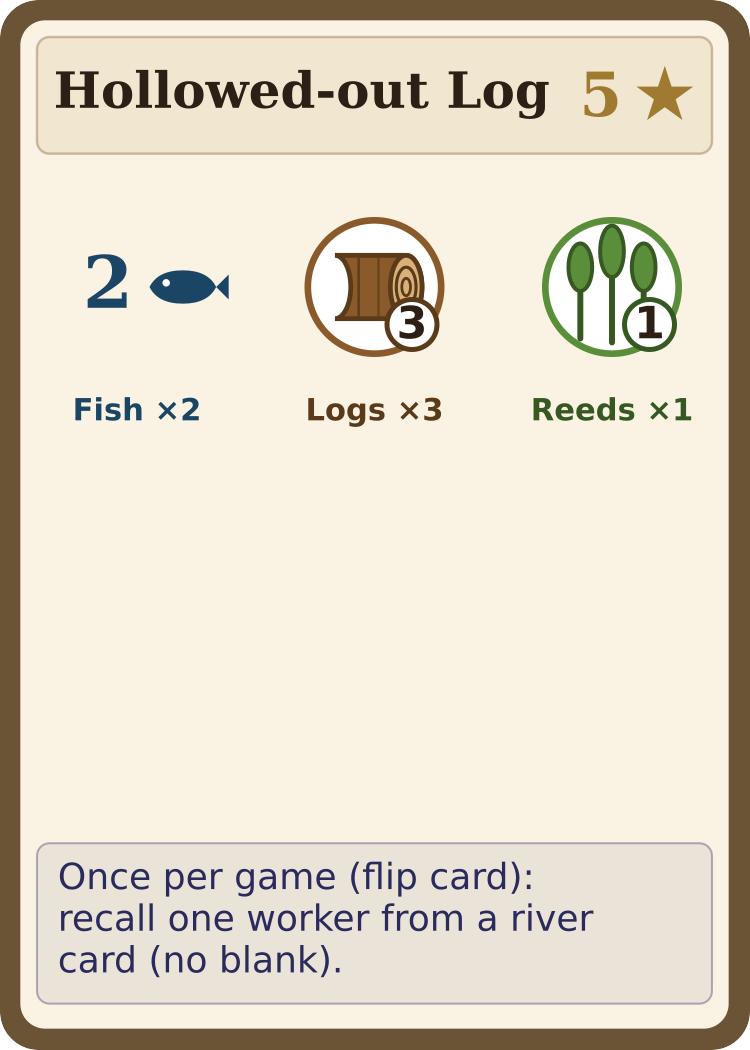
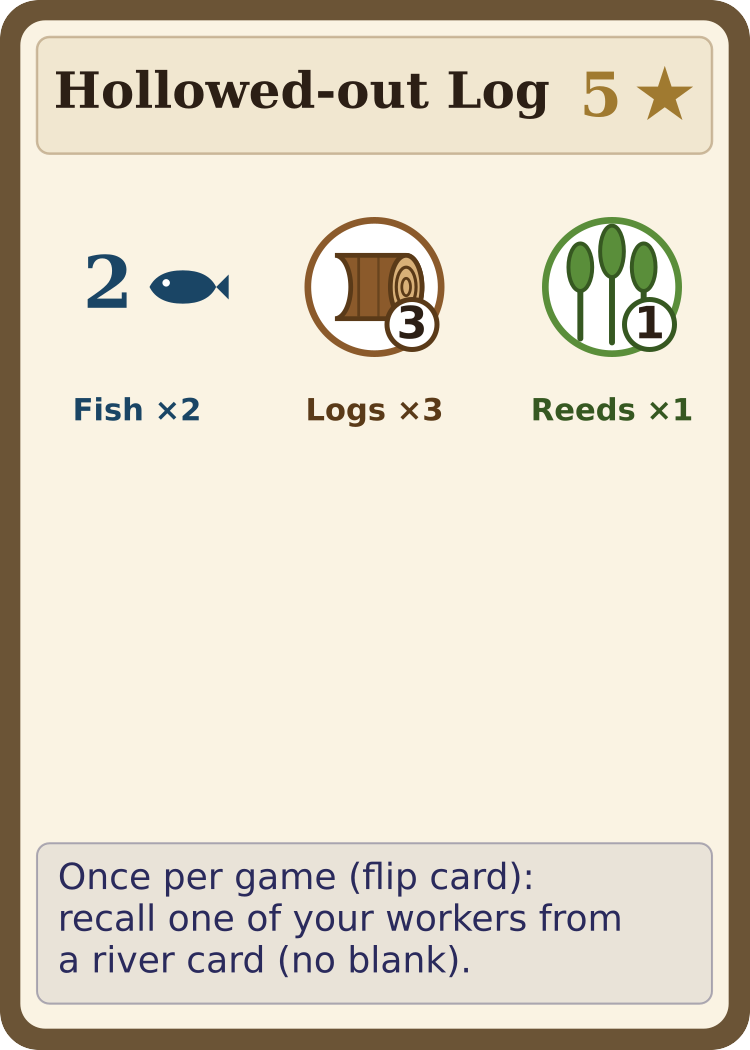
Consistency pass: rulebook, strategy guide, card text
Snag Pile's text contradicted its own implementation. sim.js, the web
prototype and the BGA port all auction the chosen Headwaters card IN
PLACE at the Headwaters rate and only then float it to River 1; the
printed text read "pull a Headwaters card to River 1; run an auction on
it at 1/item", which implies the card is at River 1 when auctioned —
i.e. 2/item, and a post-auction slide to River 2. Restated to match.

Hollowed-out Log said "recall one worker"; only your own workers are
ever eligible (the two cards that touch an opponent's, Tribute Stone and
Snare Set, both say "force an opponent"). Now "one of your workers".

Both reworded in all four sources that carry card prose — cards.json,
sim.js, web/index.html, bga Material.php — and the two card PNGs
regenerated and copied into the serveable structure-deck/.

Strategy guide:
- 3P deck is 19 cards, not 18. Flotsam Raft joined the 3P+ tier on
  2026-09-19 and this sentence predated it.
- Basking Rocks is an always-tier card; "(3P and 2P alike)" read as
  excluding 4P, especially sitting under "Old Growth (4P)".
- "two wildcards always pair with each other" is only true of two
  workers on the SAME wildcard — a Driftwood Tangle worker (logs/reeds)
  and a Mud Slick worker (mud/clay) share no material.
- The price-driving example had the Mink paying 4 x 2 = 8 for clay; a
  Mink holding Clay Den (-2, min 1) pays 4. Victim is now the Otter
  wanting stones, which no species discounts.
[…]

Changed region(s): [[0.092, 0.8533, 0.828, 0.9448]]

diff --git a/rulebook/strategy-guide.html b/rulebook/strategy-guide.html
@@ -413,7 +413,7 @@
   card reaches the Shoreline, which makes early icons on Old Growth quietly better than they look.
 </p>
 <p>
-  <strong>Basking Rocks (3P and 2P alike) pays for company.</strong> The first worker you spend from
+  <strong>Basking Rocks (in at every player count) pays for company.</strong> The first worker you spend from
   it each turn is worth <em>one item per player</em> with workers aboard — solo it's a plain stone
   pile; crowded, your first spend doubles or triples. Two reads follow: don't race rivals off the
   card, because their presence <em>is</em> your bonus (and yours is theirs — the rare pile-on that
@@ -471,7 +471,7 @@
   At 2 players the deck swaps Rocky Shoal (Stones ×5) and Trailing Vine (Vines ×5) for a single
   shared wildcard, <strong>Bramble Shoal</strong> (Stones/Vines ×5). It is the most visible of
   several 2P changes — the six 4-icon cards sit out at two players too, leaving an 11-card deck
-  against 18 at three. It
+  against 19 at three. It
   pulls double duty: a staple-priced source of Stones <em>and</em> a flexible source of Vines on one
   card, so the two of you are more likely to want it at the same time. That makes it the card most
   worth contesting in the midgame — winning it can cover a staple structure and feed a vine engine in
@@ -498,7 +498,7 @@
   makes early raft icons quietly undervalued at 3&ndash;4 players.
 </p>
 <p>
-  The investment has a <strong>maturity date</strong>: the raft never beaches. When it would
+  The investment has a <strong>maturity date</strong>: the raft never reaches the shoreline. When it would
   leave the river there is one last call in fish-track order, and workers still aboard afterwards
   come home to your supply with nothing to show for the auction fish. Each icon ferries exactly
   once (the departing worker leaves a blank), so treat the raft as a bank with six withdrawal
@@ -725,9 +725,10 @@
 
 <div class="callout example">
   <div class="label">Example — driving up a rival's price</div>
-  <span class="worker mink"></span> The Mink clearly needs 3 clay to finish a structure on a 4-icon
-  card at River 1. <span class="worker beaver"></span> You don't need clay at all, but you bid
-  <strong>1</strong> anyway. Now the Mink must bid the full 4 to be sure of 3 after the overbid — and
+  <span class="worker otter"></span> The Otter clearly needs 3 stones to finish a structure on a
+  4-icon card at River 1 — and no species discounts stones, so they pay the full rate.
+  <span class="worker beaver"></span> You don't need stones at all, but you bid
+  <strong>1</strong> anyway. Now the Otter must bid the full 4 to be sure of 3 after the overbid — and
   pays <strong>4 × 2🐟 = 8🐟</strong> for the privilege, eight spaces of tempo. You spent
   <strong>2🐟</strong> to cost them four times as much. Sometimes the point of a bid isn't what you
   win — it's what you make the table pay.
@@ -869,7 +870,7 @@
     zero in every remaining auction — the river is yours alone, at whatever the position charges. So
     don't cross on the smallest action you can find; cross on the one that <em>buys</em> something.
     The usual prize is a pair: one more icon of a material you already hold turns a stranded
-    singleton into <span class="vp">1★</span>, and two wildcards always pair with each other. You're
+    singleton into <span class="vp">1★</span>, and two workers on the same wildcard always pair. You're
     spending fish you'll never need again — just buy the pair, not the pile, since the tiebreaker
     still favors the lean crossing.</li>
 </ul>

diff --git a/web/index.html b/web/index.html
@@ -1903,8 +1903,8 @@ function buildMaterialDeck(numPlayers) {
 //   <material> <icons>" indicator) that's visible whenever the human has Lookout Tree built.
 const STRUCTURE_TEMPLATES = [
   { name: 'Spillway',     cost: { logs: 4, mud: 2 },               time: 0, vp: 6, effect: 'When built: wash one card from River 1 to the shoreline (workers carry along).' },
-  { name: 'Hollowed-out Log', cost: { logs: 3, reeds: 1 },           time: 2, vp: 5, effect: 'Once per game (flip card): recall one worker from a river card (no blank).' },
-  { name: 'Snag Pile',      cost: { reeds: 2, stones: 1 },           time: 2, vp: 3, effect: 'When built: pull a Headwaters card to River 1; run an auction on it at 1🐟/item.' },
+  { name: 'Hollowed-out Log', cost: { logs: 3, reeds: 1 },           time: 2, vp: 5, effect: 'Once per game (flip card): recall one of your workers from a river card (no blank).' },
+  { name: 'Snag Pile',      cost: { reeds: 2, stones: 1 },           time: 2, vp: 3, effect: 'When built: auction a Headwaters card in place at 1🐟/item, free. It then flows to River 1.' },
   { name: 'Heron Watch',    cost: { stones: 4, logs: 2 },            time: 4, vp: 0, effect: 'End of game: +1 VP per shoreline card on the table (max +6).' },
   { name: 'Reed Bed',       cost: { reeds: 3, mud: 1 },              time: 2, vp: 4, effect: 'Reed icons cost you 1 less 🐟 per item (min 1).' },
   { name: 'Mud Levee',      cost: { mud: 3, stones: 2 },             time: 3, vp: 6, effect: 'When built: drop 2 blanks on uncovered icons in the river.' },
@@ -3350,7 +3350,7 @@ function effectDescription(card) {
     case 'crowd-bonus':
       return `The first worker you spend from this card each turn is worth 1 item per player with workers on this card.`;
     case 'staging':
-      return `Cannot be spent. Move workers to open river icons as an action (drop a blank), or when it leaves the river: slide back this card's cost, advance the destination's. Workers left aboard at the last call return to your supply; the card is then discarded.`;
+      return `Cannot be spent. Move workers to open river icons as an action (drop a blank), or when it leaves the river: slide back this card's cost, advance the destination's.`;
     case 'old-growth':
       return `If this card is at River 3 or 4 or on the Shoreline, each worker you retrieve yields 2 ${card.material} instead of 1.`;
     default:

diff --git a/sim.js b/sim.js
@@ -22,8 +22,8 @@ let MAT_KEYS = ORIG_MATERIALS.slice();
 // Disable a single card's effect for ablation via setStructureEffectDisabled.
 const BASE_STRUCTURE_TEMPLATES = [
   { name: 'Spillway',     cost: { logs: 4, mud: 2 },               time: 0, vp: 6, effect: 'When built: wash one card from River 1 to the shoreline (workers carry along).' },
-  { name: 'Hollowed-out Log', cost: { logs: 3, reeds: 1 },           time: 2, vp: 5, effect: 'Once per game (flip card): recall one worker from a river card (no blank).' },
-  { name: 'Snag Pile',      cost: { reeds: 2, stones: 1 },           time: 2, vp: 3, effect: 'When built: pull a Headwaters card to River 1; run an auction on it at 1🐟/item.' },
+  { name: 'Hollowed-out Log', cost: { logs: 3, reeds: 1 },           time: 2, vp: 5, effect: 'Once per game (flip card): recall one of your workers from a river card (no blank).' },
+  { name: 'Snag Pile',      cost: { reeds: 2, stones: 1 },           time: 2, vp: 3, effect: 'When built: auction a Headwaters card in place at 1🐟/item, free. It then flows to River 1.' },
   { name: 'Heron Watch',    cost: { stones: 4, logs: 2 },            time: 4, vp: 0, effect: 'End of game: +1 VP per shoreline card on the table (max +6).' },
   { name: 'Reed Bed',       cost: { reeds: 3, mud: 1 },              time: 2, vp: 4, effect: 'Reed icons cost you 1 less 🐟 per item (min 1).' },
   { name: 'Mud Levee',      cost: { mud: 3, stones: 2 },             time: 3, vp: 6, effect: 'When built: drop 2 blanks on uncovered icons in the river.' },
@@ -1086,8 +1086,9 @@ function effectiveBuildCost(struct, p, wbm) {
 //   "always"  → in deck for any player count   (2 cards/mat: [5,7] icons)
 //   "3+"      → only included when numPlayers >= 3 (1 card/mat: [4] icons)
 //   "4+"      → only included when numPlayers >= 4 (1 card/mat: [8] icons)
-// Counts: 2P=11, 3P=18, 4P=24 cards. (2P is net -1: the stones-5 and vines-5
-// vanilla cards are merged into a single shared wild-5 — see SV_WILD_CARD.)
+// Counts: 2P=11, 3P=19, 4P=25 cards. (2P is net -1: the stones-5 and vines-5
+// vanilla cards are merged into a single shared wild-5 — see SV_WILD_CARD.
+// 3P/4P each include the material-less Flotsam Raft — see STAGING_CARD.)
 let ALWAYS_ICONS = [5, 7];
 let TIER_3PLUS_ICONS = [4];
 let TIER_4PLUS_ICONS = [8];

diff --git a/rulebook/rulebook.html b/rulebook/rulebook.html
@@ -910,12 +910,12 @@
     reach species starters as well as structures.</li>
   <li><strong>When a specific thing happens to you</strong> — a trigger tied to an event rather than
     to your own build or action. (<em>Pontoon</em>: when a jammed auction makes you place fewer
-    workers than you bid.)</li>
+    workers than you bid. <em>Streambank Hollow</em>: when you recall workers before an auction.)</li>
   <li><strong>End of game</strong> — scores during final scoring based on the end-state of the
     table. These are the <span class="vp">?</span>-VP cards (Heron Watch, Pier, Hidden Cache,
     Cattail Patch, Trophy Lodge, Vine Ladder, and the five material engines listed above).</li>
   <li><strong>Constant / passive</strong> — no explicit trigger; the effect is simply on while the
-    card is in your tableau. (Reed Bed, Cache Burrow, Lookout Tree, Streambank Hollow, and all four
+    card is in your tableau. (Reed Bed, Cache Burrow, Lookout Tree, and all four
     species material-bias starters.)</li>
 </ul>
 <p style="margin-top: 6pt;">
@@ -1304,7 +1304,7 @@
 <p>
   The fish track has a single <strong>finish line at 90 fish</strong>.
   It sits on the <strong>second lap</strong> — flip your pawn to its &quot;+60&quot; side as you pass
-  <strong>0</strong>, then play on toward your finish space (90 = space 30 on the lap-2 side).
+  <strong>0</strong>, then play on toward the finish space (90 = space 30 on the lap-2 side).
 </p>
 <p>
   Play continues normally up to that point. The <strong>material deck running out does
@@ -1317,7 +1317,7 @@
 </p>
 <p>
   <strong>Crossing the line.</strong> The moment one of your actions carries your pawn <em>to or
-  past</em> your finish line, finish that action normally, then <strong>retire</strong>: your pawn
+  past</em> the finish line, finish that action normally, then <strong>retire</strong>: your pawn
   takes no more turns and you bid 0 in any remaining auctions. You stay on the space you landed on —
   but <strong>if another retired pawn is already there, slide forward to the next open space</strong>
   (two pawns never share a finish space). Your built structures stay on the table. Everyone else keeps

diff --git a/bga/modules/php/Material.php b/bga/modules/php/Material.php
@@ -56,8 +56,8 @@ class Material
     // "Cards not present in the BGA port" section in games/board-games.org.
     public static array $STRUCTURE = [
         0 => ['name' => 'Spillway', 'cost' => ['logs' => 4, 'mud' => 2], 'time' => 0, 'vp' => '6', 'effect' => 'When built: wash one card from River 1 to the shoreline (workers carry along).'],
-        1 => ['name' => 'Hollowed-out Log', 'cost' => ['logs' => 3, 'reeds' => 1], 'time' => 2, 'vp' => '5', 'effect' => 'Once per game (flip card): recall one worker from a river card (no blank).'],
-        2 => ['name' => 'Snag Pile', 'cost' => ['reeds' => 2, 'stones' => 1], 'time' => 2, 'vp' => '3', 'effect' => 'When built: pull a Headwaters card to River 1; run an auction on it at 1🐟/item.'],
+        1 => ['name' => 'Hollowed-out Log', 'cost' => ['logs' => 3, 'reeds' => 1], 'time' => 2, 'vp' => '5', 'effect' => 'Once per game (flip card): recall one of your workers from a river card (no blank).'],
+        2 => ['name' => 'Snag Pile', 'cost' => ['reeds' => 2, 'stones' => 1], 'time' => 2, 'vp' => '3', 'effect' => 'When built: auction a Headwaters card in place at 1🐟/item, free. It then flows to River 1.'],
         3 => ['name' => 'Heron Watch', 'cost' => ['stones' => 4, 'logs' => 2], 'time' => 4, 'vp' => '0', 'effect' => 'End of game: +1 VP per shoreline card on the table (max +6).'],
         4 => ['name' => 'Reed Bed', 'cost' => ['reeds' => 3, 'mud' => 1], 'time' => 2, 'vp' => '4', 'effect' => 'Reed icons cost you 1 less 🐟 per item (min 1).'],
         5 => ['name' => 'Mud Levee', 'cost' => ['mud' => 3, 'stones' => 2], 'time' => 3, 'vp' => '6', 'effect' => 'When built: drop 2 blanks on uncovered icons in the river.'],
